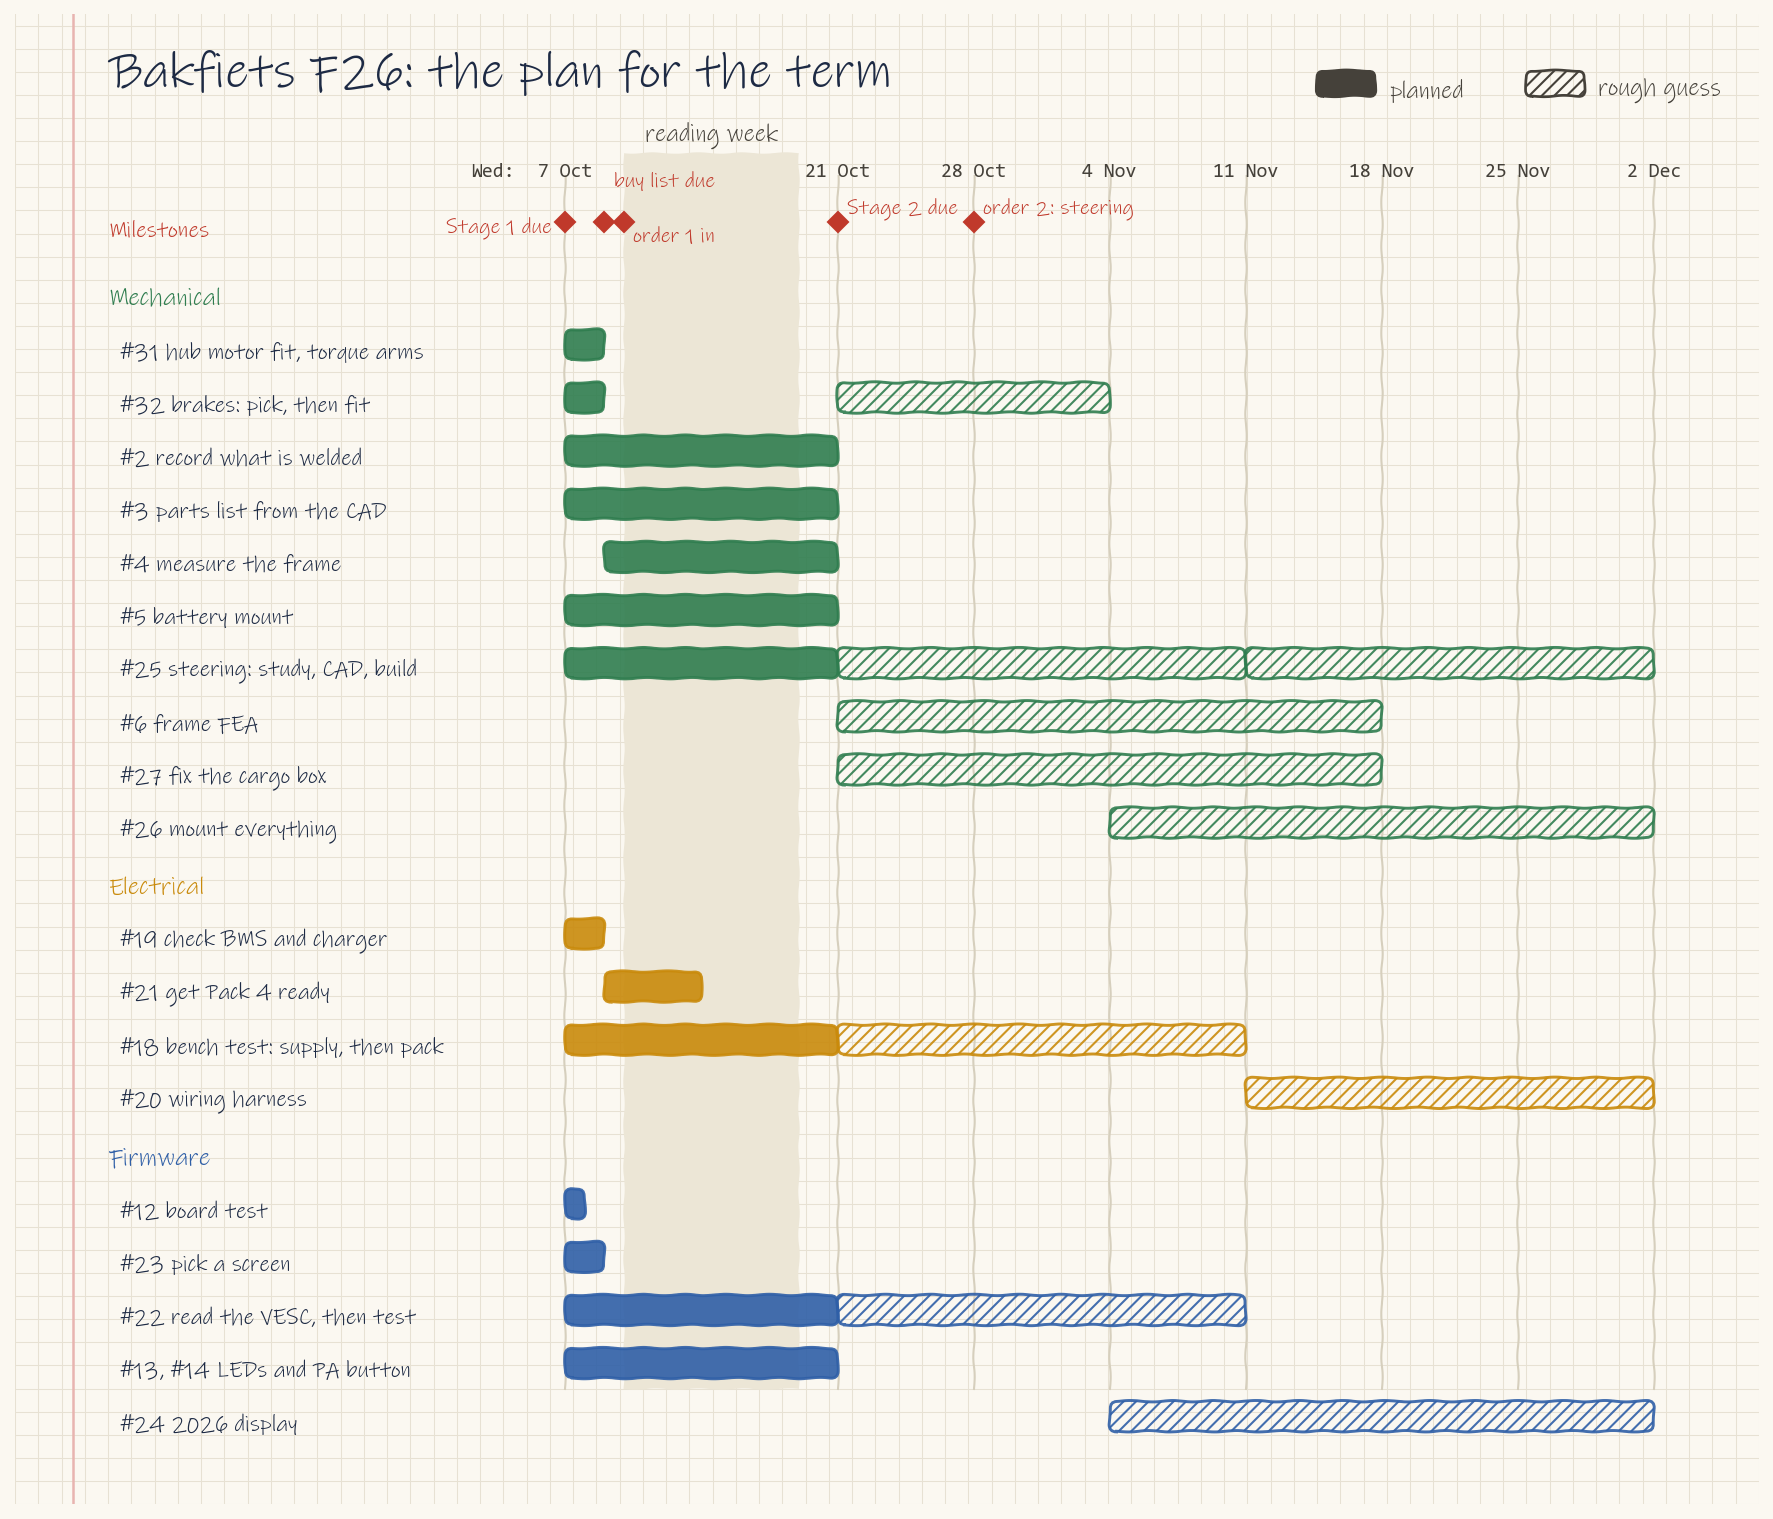
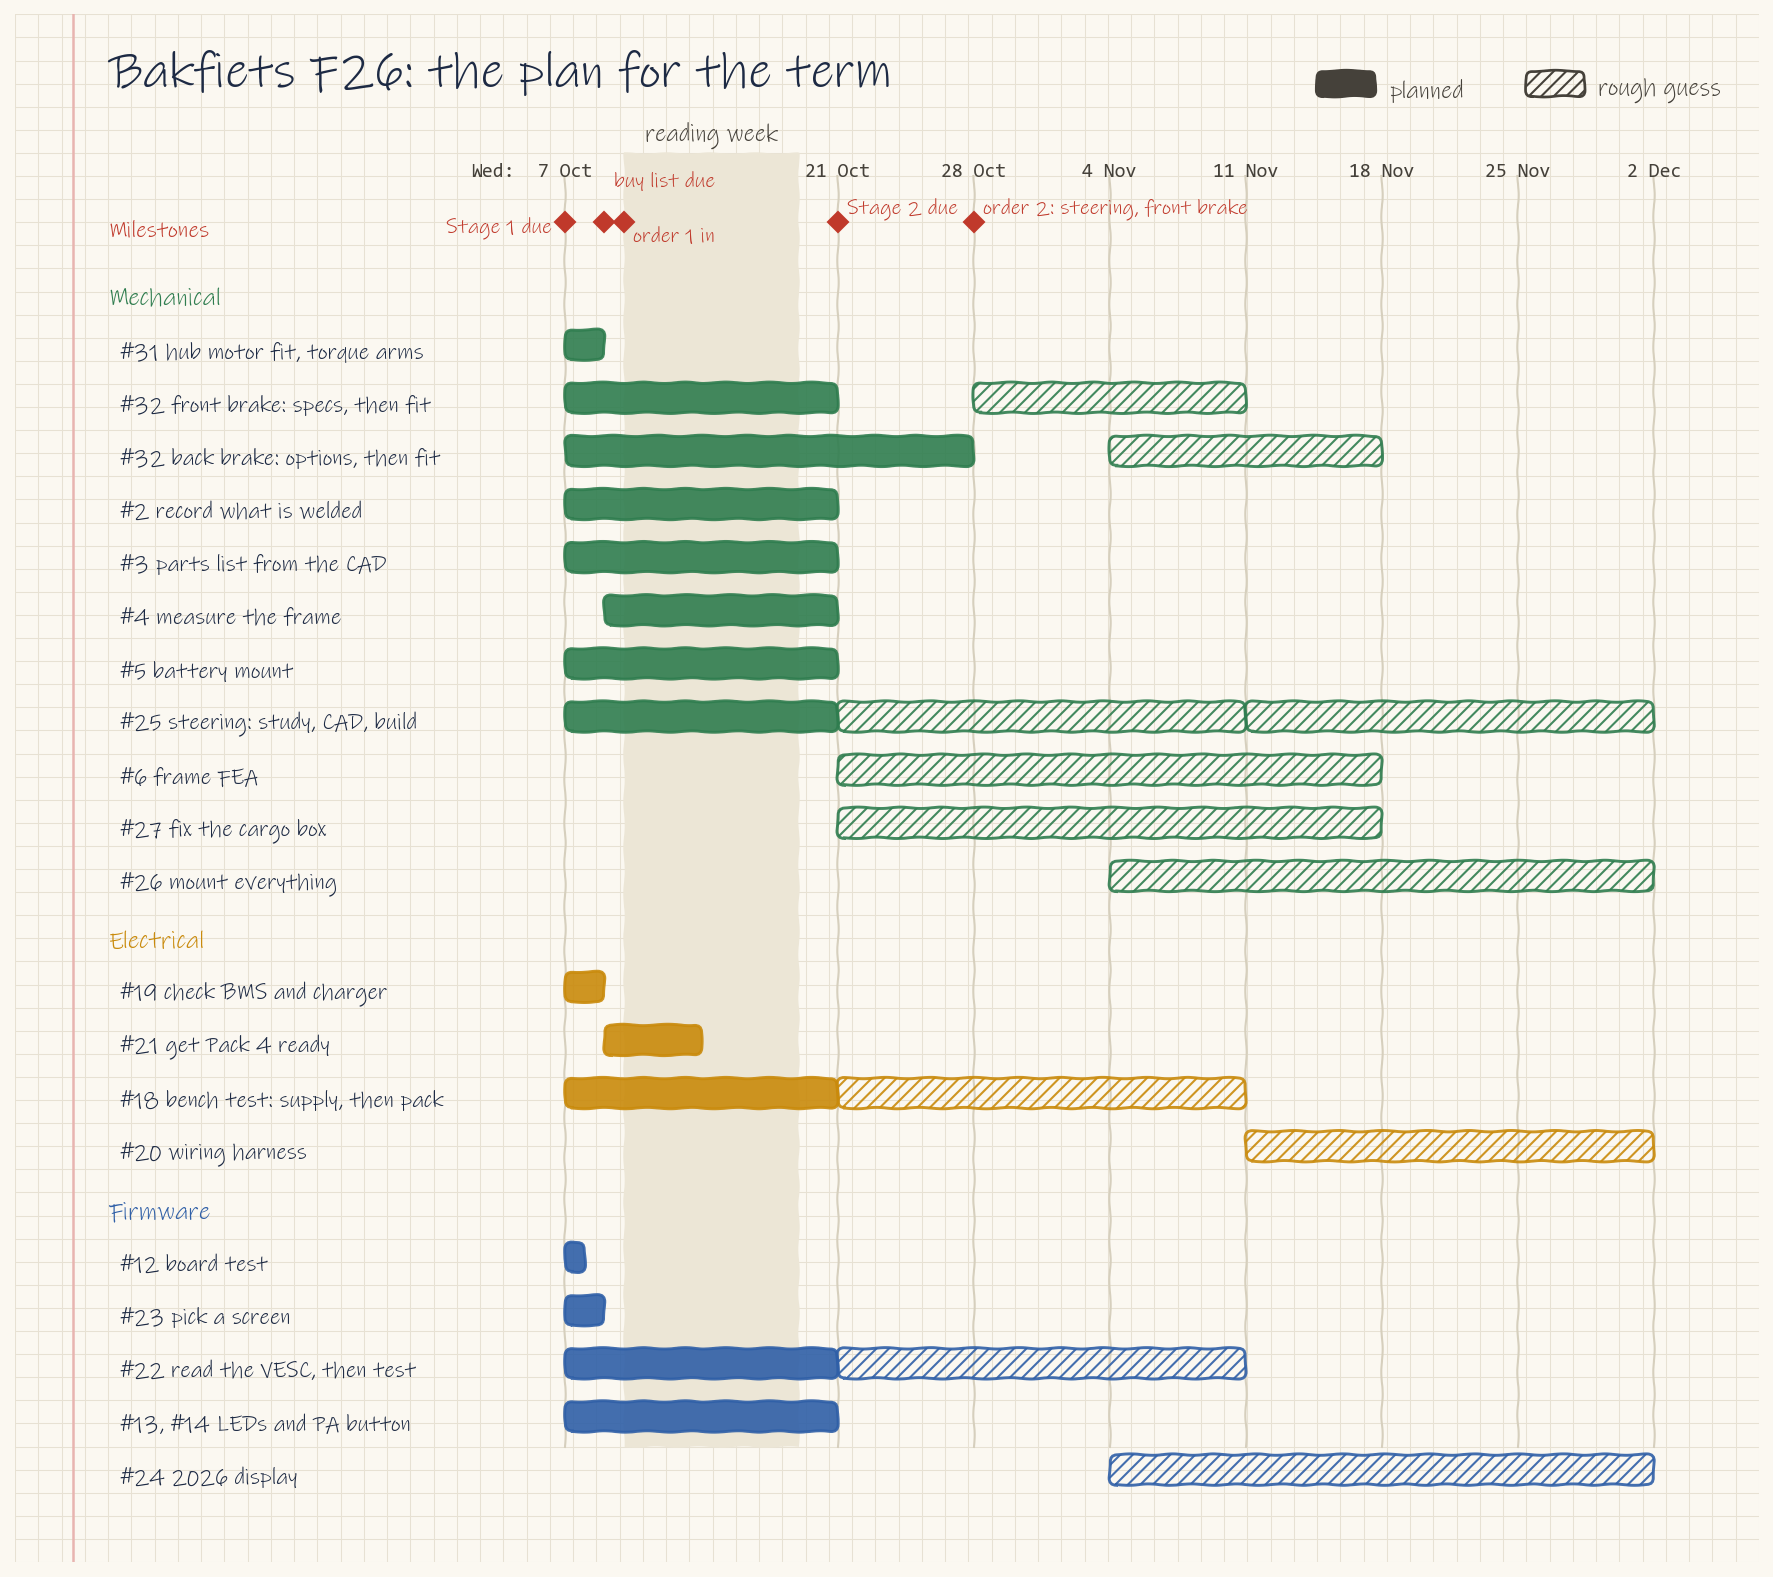
Gantt: split brakes into front (21 Oct) and back (28 Oct), front brake joins order 2

diff --git a/docs/diagrams/gantt-f26.py b/docs/diagrams/gantt-f26.py
@@ -15,7 +15,8 @@ D = lambda m, d: date(2026, m, d)
 rows = [
     ('Mechanical', GREEN, [
         ('#31 hub motor fit, torque arms', [(D(10, 7), D(10, 9), 1)]),
-        ('#32 brakes: pick, then fit',     [(D(10, 7), D(10, 9), 1), (D(10, 21), D(11, 4), 0)]),
+        ('#32 front brake: specs, then fit', [(D(10, 7), D(10, 21), 1), (D(10, 28), D(11, 11), 0)]),
+        ('#32 back brake: options, then fit', [(D(10, 7), D(10, 28), 1), (D(11, 4), D(11, 18), 0)]),
         ('#2 record what is welded',       [(D(10, 7), D(10, 21), 1)]),
         ('#3 parts list from the CAD',     [(D(10, 7), D(10, 21), 1)]),
         ('#4 measure the frame',           [(D(10, 9), D(10, 21), 1)]),
@@ -59,7 +60,7 @@ mono(ax, X0 - 1, top + 2.4, 'Wed:', size=8.5, color=PENCIL, ha='right')
 # milestones
 y = top - 2
 for d, label, dy in [(D(10, 7), 'Stage 1 due', 0), (D(10, 9), 'buy list due', 2.4), (D(10, 10), 'order 1 in', -2.4),
-                     (D(10, 21), 'Stage 2 due', 0), (D(10, 28), 'order 2: steering', 0)]:
+                     (D(10, 21), 'Stage 2 due', 0), (D(10, 28), 'order 2: steering, front brake', 0)]:
     xx = x(d)
     ax.plot([xx], [y], marker='D', ms=7, color=RED, zorder=4)
     if label == 'Stage 1 due':
